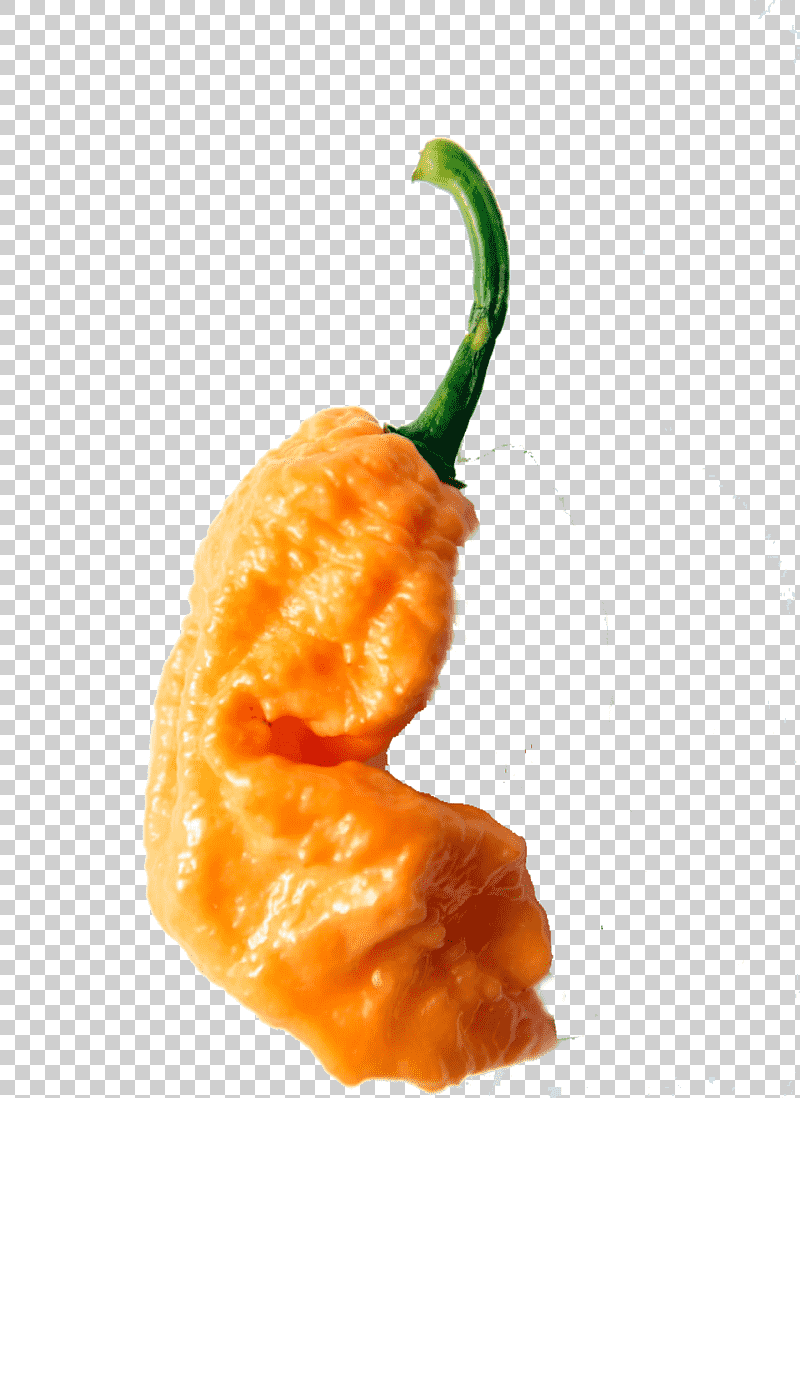
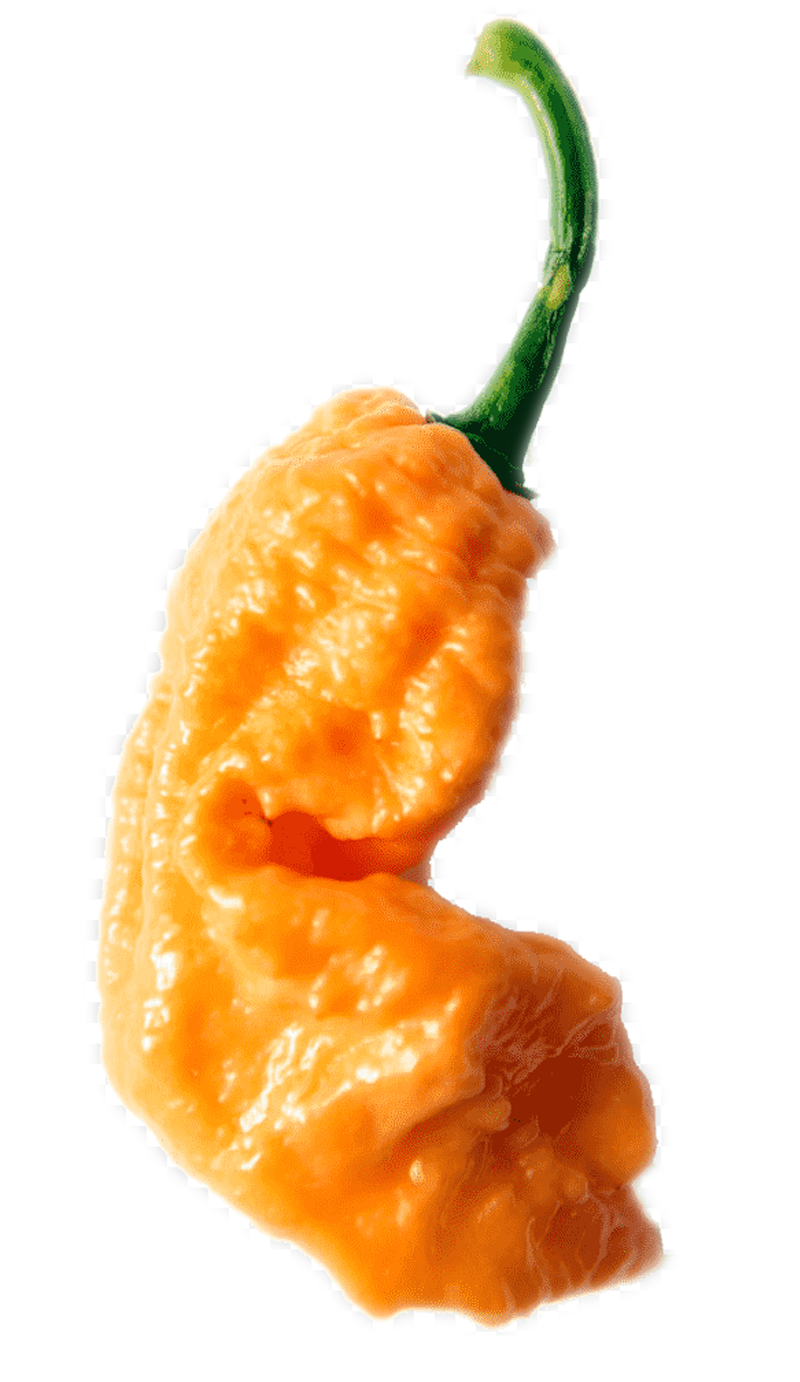
sized images and cards on store page

diff --git a/src/components/Store/Store.js b/src/components/Store/Store.js
@@ -4,6 +4,8 @@ import yellowbhut from './media/yellowbhut.png';
 import chocolate from './media/chocolate.png';
 import ghost from './media/ghost.png';
 import scorpion from './media/scorpion.png';
+import yellowreaper from './media/yellowreaper.png';
+import habanero from './media/habanero.png';
 
 class Store extends Component {
   constructor() {
@@ -15,7 +17,7 @@ class Store extends Component {
           img: chocolate,
           price: '$12',
           desc:
-            'The chocolate habanero has an exotic and unusual taste, and is hotter than a regular habanero with a rating between 425,000 and 577,000 Scoville units. Small slivers used in cooking can have a dramatic effect on the overall dish.',
+            'The chocolate habanero has an exotic and unusual taste, and is hotter than a regular habanero with a top rating of 577,000 Scoville units. Small slivers used in cooking can have a dramatic effect on the overall dish.',
         },
         {
           type: 'Yellow Bhut',
@@ -35,6 +37,18 @@ class Store extends Component {
           price: '$15',
           desc: 'From trinidad!',
         },
+        {
+          type: 'Yellow Reaper',
+          img: yellowreaper,
+          price: '$20',
+          desc: 'Yellow Carolina Reaper',
+        },
+        {
+          type: 'Habanero',
+          img: habanero,
+          price: '$7',
+          desc: 'Classic',
+        },
       ],
     };
   }
@@ -48,7 +62,8 @@ class Store extends Component {
     });
     return (
       <div className='bg-light-green'>
-        <div className='flex flex-wrap pa5 '>{productCards}</div>
+        <div className='tc pt3'>Here's what's in stock:</div>
+        <div className='flex flex-wrap pa3'>{productCards}</div>
       </div>
     );
   }

diff --git a/src/components/Store/ProductCard.js b/src/components/Store/ProductCard.js
@@ -1,9 +1,4 @@
 import React, { Component } from 'react';
-import yellowbhut from './media/yellowbhut.png';
-import chocolate from './media/chocolate.png';
-import ghost from './media/ghost.png';
-import scorpion from './media/scorpion.png';
-import Store from './Store';
 
 export class ProductCard extends Component {
   constructor(props) {
@@ -13,7 +8,7 @@ export class ProductCard extends Component {
     return (
       <div className='storeCard'>
         <h1>
-          <article className='br2 ba dark-gray b--black-10 mv4  mw5 center shadow-3 grow'>
+          <article className='singlecard br2 ba  dark-gray b--black-10 w5  center shadow-3 grow'>
             <img
               src={this.props.pepper.img}
               className='choc db br2 br--top center'
@@ -28,7 +23,7 @@ export class ProductCard extends Component {
                   <h2 className='f5 mv0'>{this.props.pepper.price}</h2>
                 </div>
               </div>
-              <p className='f6 lh-copy measure mt2 mid-gray'>
+              <p className='f6 lh-copy measure mt2 mid-gray h4'>
                 {this.props.pepper.desc}
               </p>
             </div>

diff --git a/src/App.css b/src/App.css
@@ -26,3 +26,6 @@
 .navlinks:focus {
   outline: 0 !important;
 }
+
+.singlecard {
+}
